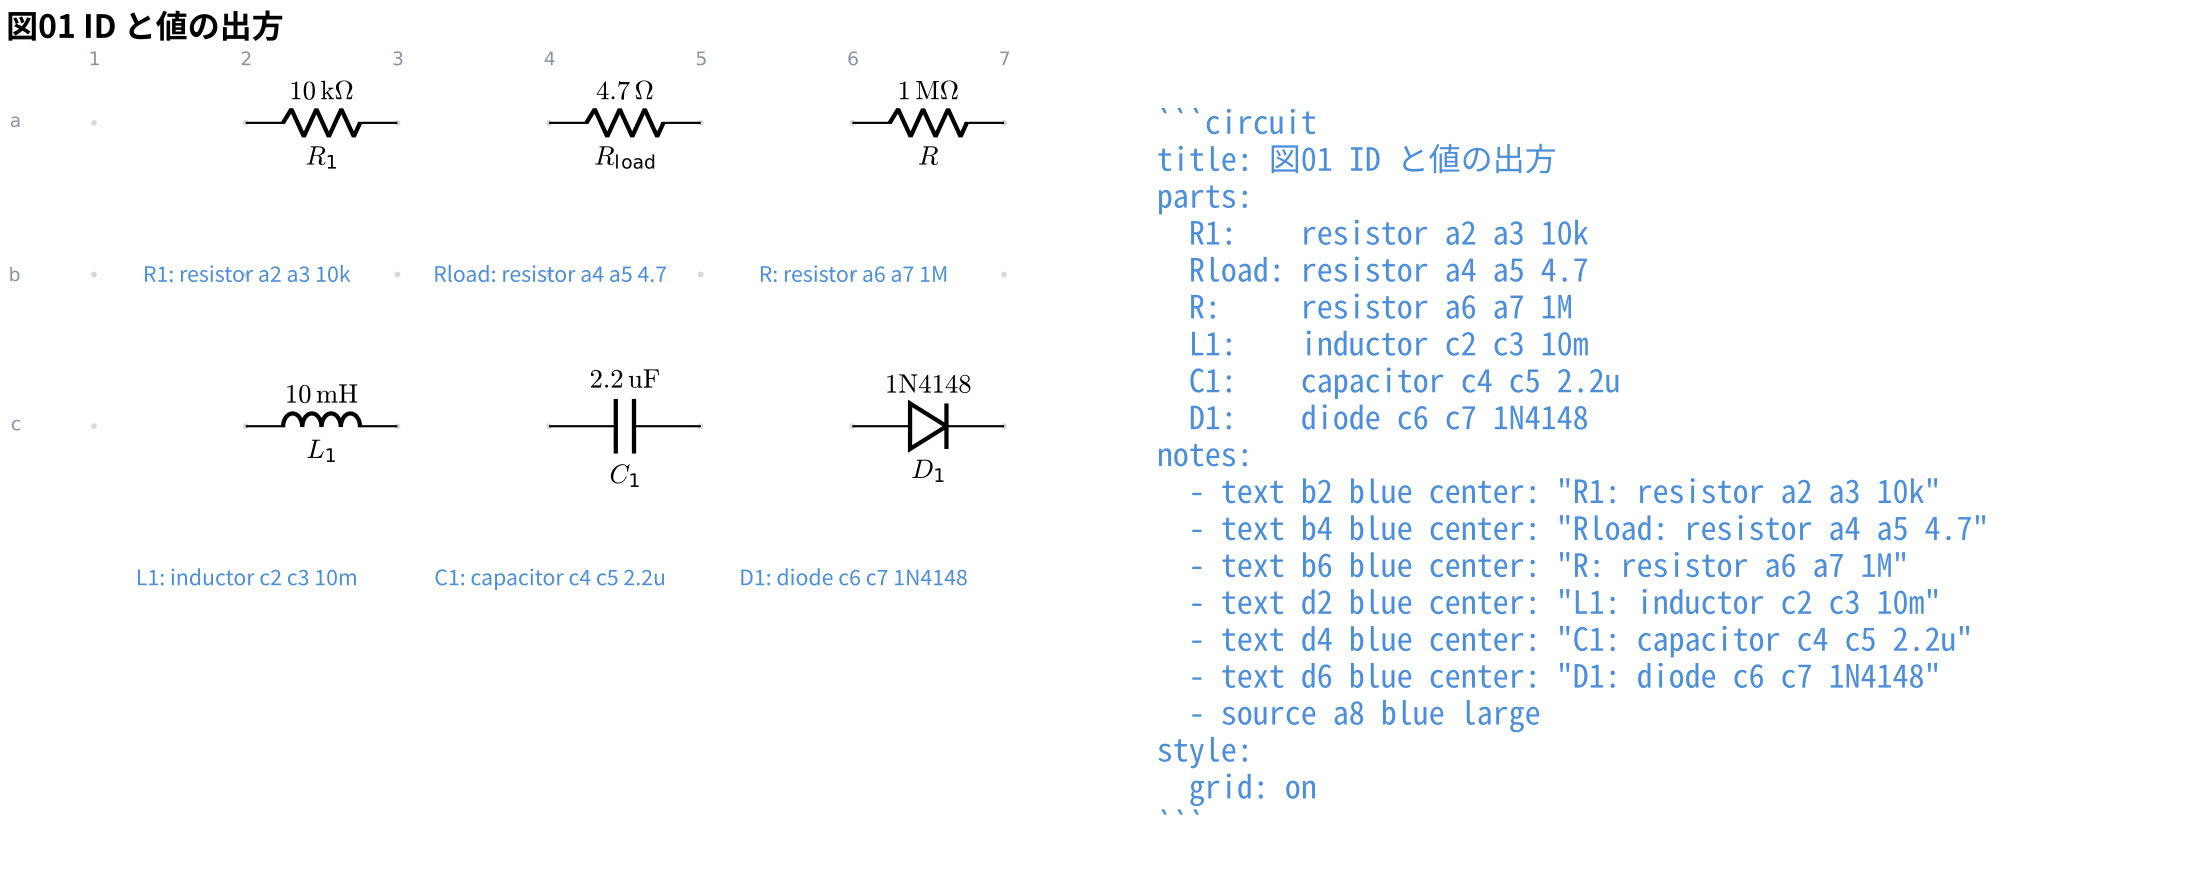
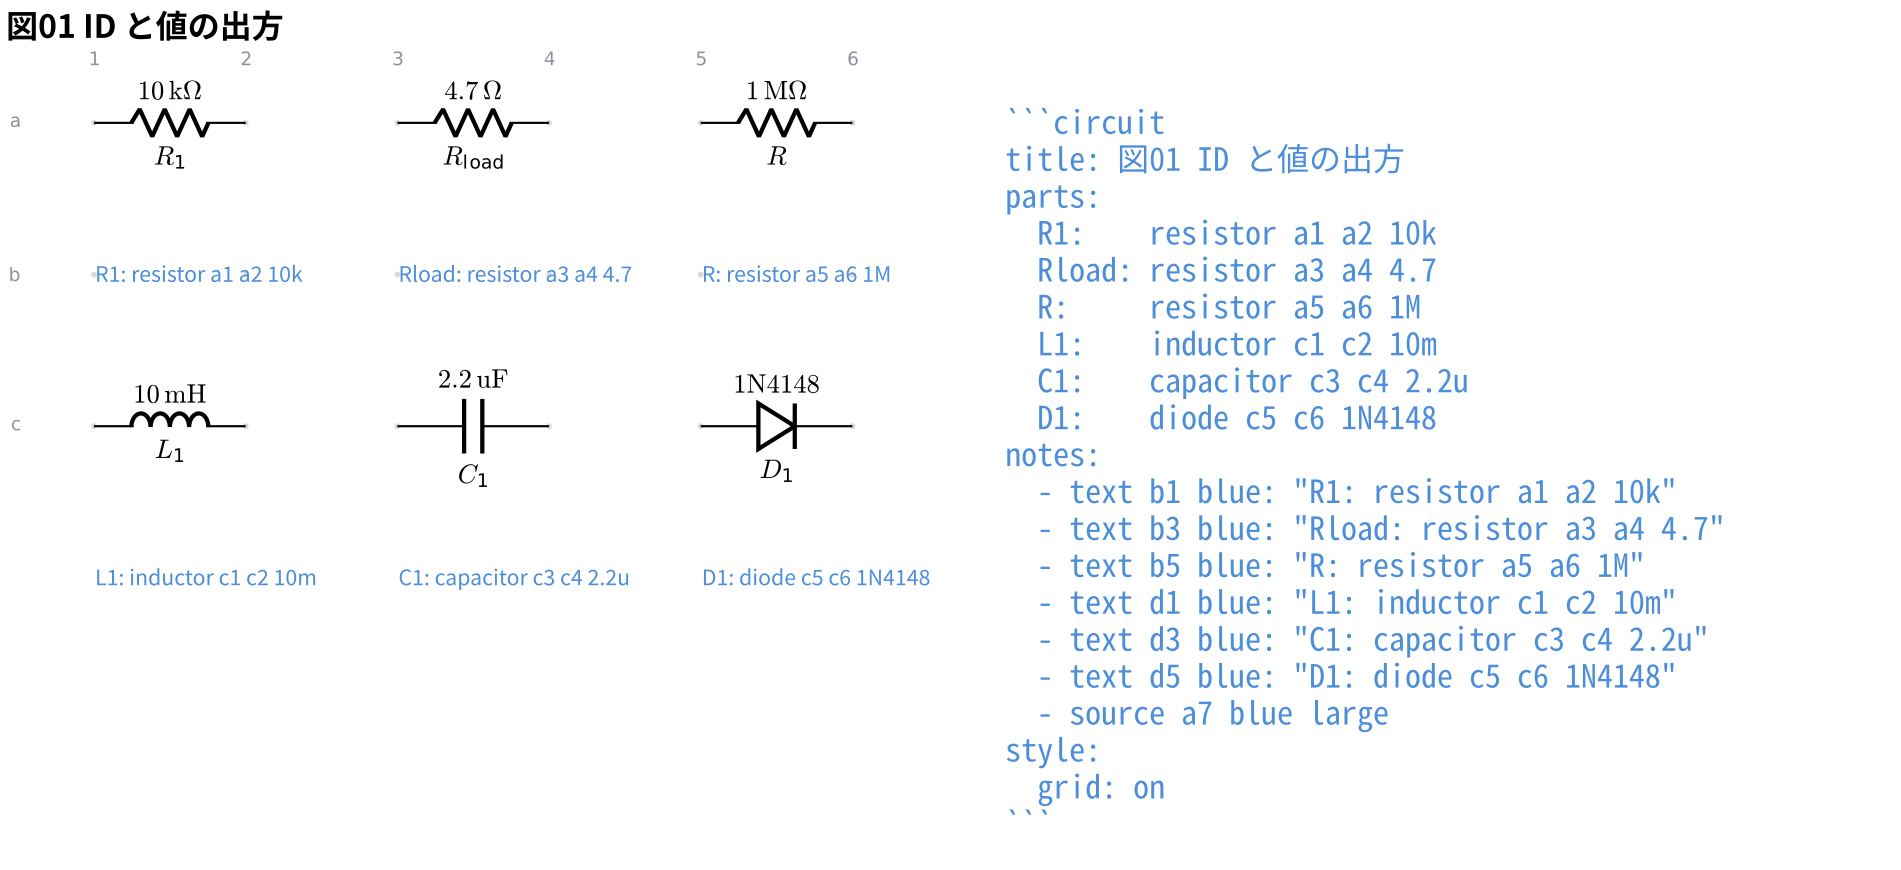
docs: 05-labels の図を 1 列左へ寄せ、コメントを左端揃えにする
部品もコメントも 1 列ずつ左へ (a2-a3 → a1-a2 など)。1 列目を空けていたのは
中央揃えの字が番地の左へ伸びて行ラベルに噛むためだったが、左端揃えなら
字は右へしか伸びないので、その心配がなくなった。

書き出しも 1 列寄せて a8 → a7。

字が隣に噛まないことは図で確かめた (いちばん長い
「Rload: resistor a3 a4 4.7」で、隣の字まで 1 文字ぶん残っている)。

🤖 Generated with [Claude Code](https://claude.com/claude-code)

diff --git a/packages/circuit-fence/examples/out/05-labels.tex b/packages/circuit-fence/examples/out/05-labels.tex
@@ -5,68 +5,67 @@
 \begin{document}
 \begin{circuitikz}[american, line width=0.8pt]
 \ctikzset{bipoles/length=1.2cm}
-\foreach \x in {0,2,4,6,8,10,12} {\foreach \y in {0,-2,-4} {\fill[gray, opacity=0.35] (\x,\y) circle (1.1pt);}}
+\foreach \x in {0,2,4,6,8,10} {\foreach \y in {0,-2,-4} {\fill[gray, opacity=0.35] (\x,\y) circle (1.1pt);}}
 \node[gray, font=\scriptsize] at (0,0.84) {1};
 \node[gray, font=\scriptsize] at (2,0.84) {2};
 \node[gray, font=\scriptsize] at (4,0.84) {3};
 \node[gray, font=\scriptsize] at (6,0.84) {4};
 \node[gray, font=\scriptsize] at (8,0.84) {5};
 \node[gray, font=\scriptsize] at (10,0.84) {6};
-\node[gray, font=\scriptsize] at (12,0.84) {7};
 \node[gray, font=\scriptsize, anchor=east] at (-0.84,0) {a};
 \node[gray, font=\scriptsize, anchor=east] at (-0.84,-2) {b};
 \node[gray, font=\scriptsize, anchor=east] at (-0.84,-4) {c};
+\coordinate (a1) at (0,0);
 \coordinate (a2) at (2,0);
 \coordinate (a3) at (4,0);
 \coordinate (a4) at (6,0);
 \coordinate (a5) at (8,0);
 \coordinate (a6) at (10,0);
-\coordinate (a7) at (12,0);
+\coordinate (c1) at (0,-4);
 \coordinate (c2) at (2,-4);
 \coordinate (c3) at (4,-4);
 \coordinate (c4) at (6,-4);
 \coordinate (c5) at (8,-4);
 \coordinate (c6) at (10,-4);
-\coordinate (c7) at (12,-4);
-\draw (a2) to[R, l_=$R_{1}$, a^=$10\,\mathrm{k}\Omega$] (a3); % line 3
-\draw (a4) to[R, l_=$R_{load}$, a^=$4.7\,\Omega$] (a5); % line 4
-\draw (a6) to[R, l_=$R$, a^=$1\,\mathrm{M}\Omega$] (a7); % line 5
-\draw (c2) to[L, l_=$L_{1}$, a^=$10\,\mathrm{m}\mathrm{H}$] (c3); % line 6
-\draw (c4) to[C, l_=$C_{1}$, a^=$2.2\,\mathrm{u}\mathrm{F}$] (c5); % line 7
-\draw (c6) to[D, l_=$D_{1}$, a^=$\mathrm{1N4148}$] (c7); % line 8
-\path (0.137,-2.395) rectangle (3.863,-1.605); % line 10
-\node[anchor=west, inner sep=0, circuitnotemark, font=\footnotesize] at (2,-2) {X}; % line 10
-\path (3.883,-2.395) rectangle (8.117,-1.605); % line 11
-\node[anchor=west, inner sep=0, circuitnotemark, font=\footnotesize] at (6,-2) {X}; % line 11
-\path (8.307,-2.395) rectangle (11.693,-1.605); % line 12
-\node[anchor=west, inner sep=0, circuitnotemark, font=\footnotesize] at (10,-2) {X}; % line 12
-\path (0.137,-6.395) rectangle (3.863,-5.605); % line 13
-\node[anchor=west, inner sep=0, circuitnotemark, font=\footnotesize] at (2,-6) {X}; % line 13
-\path (3.968,-6.395) rectangle (8.032,-5.605); % line 14
-\node[anchor=west, inner sep=0, circuitnotemark, font=\footnotesize] at (6,-6) {X}; % line 14
-\path (8.137,-6.395) rectangle (11.863,-5.605); % line 15
-\node[anchor=west, inner sep=0, circuitnotemark, font=\footnotesize] at (10,-6) {X}; % line 15
-\path (14,-9.842) rectangle (27.648,0.593); % line 16
-\node[anchor=west, inner sep=0, circuitnotemark, font=\large] at (14,0) {X}; % line 16
-\node[anchor=west, inner sep=0, circuitnotemark, font=\large] at (14,-0.487) {X}; % line 16
-\node[anchor=west, inner sep=0, circuitnotemark, font=\large] at (14,-0.974) {X}; % line 16
-\node[anchor=west, inner sep=0, circuitnotemark, font=\large] at (14,-1.46) {X}; % line 16
-\node[anchor=west, inner sep=0, circuitnotemark, font=\large] at (14,-1.947) {X}; % line 16
-\node[anchor=west, inner sep=0, circuitnotemark, font=\large] at (14,-2.434) {X}; % line 16
-\node[anchor=west, inner sep=0, circuitnotemark, font=\large] at (14,-2.921) {X}; % line 16
-\node[anchor=west, inner sep=0, circuitnotemark, font=\large] at (14,-3.408) {X}; % line 16
-\node[anchor=west, inner sep=0, circuitnotemark, font=\large] at (14,-3.895) {X}; % line 16
-\node[anchor=west, inner sep=0, circuitnotemark, font=\large] at (14,-4.381) {X}; % line 16
-\node[anchor=west, inner sep=0, circuitnotemark, font=\large] at (14,-4.868) {X}; % line 16
-\node[anchor=west, inner sep=0, circuitnotemark, font=\large] at (14,-5.355) {X}; % line 16
-\node[anchor=west, inner sep=0, circuitnotemark, font=\large] at (14,-5.842) {X}; % line 16
-\node[anchor=west, inner sep=0, circuitnotemark, font=\large] at (14,-6.329) {X}; % line 16
-\node[anchor=west, inner sep=0, circuitnotemark, font=\large] at (14,-6.816) {X}; % line 16
-\node[anchor=west, inner sep=0, circuitnotemark, font=\large] at (14,-7.302) {X}; % line 16
-\node[anchor=west, inner sep=0, circuitnotemark, font=\large] at (14,-7.789) {X}; % line 16
-\node[anchor=west, inner sep=0, circuitnotemark, font=\large] at (14,-8.276) {X}; % line 16
-\node[anchor=west, inner sep=0, circuitnotemark, font=\large] at (14,-8.763) {X}; % line 16
-\node[anchor=west, inner sep=0, circuitnotemark, font=\large] at (14,-9.25) {X}; % line 16
+\draw (a1) to[R, l_=$R_{1}$, a^=$10\,\mathrm{k}\Omega$] (a2); % line 3
+\draw (a3) to[R, l_=$R_{load}$, a^=$4.7\,\Omega$] (a4); % line 4
+\draw (a5) to[R, l_=$R$, a^=$1\,\mathrm{M}\Omega$] (a6); % line 5
+\draw (c1) to[L, l_=$L_{1}$, a^=$10\,\mathrm{m}\mathrm{H}$] (c2); % line 6
+\draw (c3) to[C, l_=$C_{1}$, a^=$2.2\,\mathrm{u}\mathrm{F}$] (c4); % line 7
+\draw (c5) to[D, l_=$D_{1}$, a^=$\mathrm{1N4148}$] (c6); % line 8
+\path (0,-2.395) rectangle (3.725,-1.605); % line 10
+\node[anchor=west, inner sep=0, circuitnotemark, font=\footnotesize] at (0,-2) {X}; % line 10
+\path (4,-2.395) rectangle (8.233,-1.605); % line 11
+\node[anchor=west, inner sep=0, circuitnotemark, font=\footnotesize] at (4,-2) {X}; % line 11
+\path (8,-2.395) rectangle (11.387,-1.605); % line 12
+\node[anchor=west, inner sep=0, circuitnotemark, font=\footnotesize] at (8,-2) {X}; % line 12
+\path (0,-6.395) rectangle (3.725,-5.605); % line 13
+\node[anchor=west, inner sep=0, circuitnotemark, font=\footnotesize] at (0,-6) {X}; % line 13
+\path (4,-6.395) rectangle (8.064,-5.605); % line 14
+\node[anchor=west, inner sep=0, circuitnotemark, font=\footnotesize] at (4,-6) {X}; % line 14
+\path (8,-6.395) rectangle (11.725,-5.605); % line 15
+\node[anchor=west, inner sep=0, circuitnotemark, font=\footnotesize] at (8,-6) {X}; % line 15
+\path (12,-9.842) rectangle (23.811,0.593); % line 16
+\node[anchor=west, inner sep=0, circuitnotemark, font=\large] at (12,0) {X}; % line 16
+\node[anchor=west, inner sep=0, circuitnotemark, font=\large] at (12,-0.487) {X}; % line 16
+\node[anchor=west, inner sep=0, circuitnotemark, font=\large] at (12,-0.974) {X}; % line 16
+\node[anchor=west, inner sep=0, circuitnotemark, font=\large] at (12,-1.46) {X}; % line 16
+\node[anchor=west, inner sep=0, circuitnotemark, font=\large] at (12,-1.947) {X}; % line 16
+\node[anchor=west, inner sep=0, circuitnotemark, font=\large] at (12,-2.434) {X}; % line 16
+\node[anchor=west, inner sep=0, circuitnotemark, font=\large] at (12,-2.921) {X}; % line 16
+\node[anchor=west, inner sep=0, circuitnotemark, font=\large] at (12,-3.408) {X}; % line 16
+\node[anchor=west, inner sep=0, circuitnotemark, font=\large] at (12,-3.895) {X}; % line 16
+\node[anchor=west, inner sep=0, circuitnotemark, font=\large] at (12,-4.381) {X}; % line 16
+\node[anchor=west, inner sep=0, circuitnotemark, font=\large] at (12,-4.868) {X}; % line 16
+\node[anchor=west, inner sep=0, circuitnotemark, font=\large] at (12,-5.355) {X}; % line 16
+\node[anchor=west, inner sep=0, circuitnotemark, font=\large] at (12,-5.842) {X}; % line 16
+\node[anchor=west, inner sep=0, circuitnotemark, font=\large] at (12,-6.329) {X}; % line 16
+\node[anchor=west, inner sep=0, circuitnotemark, font=\large] at (12,-6.816) {X}; % line 16
+\node[anchor=west, inner sep=0, circuitnotemark, font=\large] at (12,-7.302) {X}; % line 16
+\node[anchor=west, inner sep=0, circuitnotemark, font=\large] at (12,-7.789) {X}; % line 16
+\node[anchor=west, inner sep=0, circuitnotemark, font=\large] at (12,-8.276) {X}; % line 16
+\node[anchor=west, inner sep=0, circuitnotemark, font=\large] at (12,-8.763) {X}; % line 16
+\node[anchor=west, inner sep=0, circuitnotemark, font=\large] at (12,-9.25) {X}; % line 16
 \node[anchor=south west, inner sep=2pt, circuitnotemark, font=\large\bfseries] (circuittitle) at (current bounding box.north west) {X};
 \path (circuittitle.south west) rectangle ++(5.08,0.593);
 \end{circuitikz}

diff --git a/packages/circuit-fence/examples/05-labels.md b/packages/circuit-fence/examples/05-labels.md
@@ -9,20 +9,20 @@ ID は先頭 1 文字が本体、残りが添字になる (回路図の慣習ど
 ```circuit
 title: 図01 ID と値の出方
 parts:
-  R1:    resistor a2 a3 10k
-  Rload: resistor a4 a5 4.7
-  R:     resistor a6 a7 1M
-  L1:    inductor c2 c3 10m
-  C1:    capacitor c4 c5 2.2u
-  D1:    diode c6 c7 1N4148
+  R1:    resistor a1 a2 10k
+  Rload: resistor a3 a4 4.7
+  R:     resistor a5 a6 1M
+  L1:    inductor c1 c2 10m
+  C1:    capacitor c3 c4 2.2u
+  D1:    diode c5 c6 1N4148
 notes:
-  - text b2 blue center: "R1: resistor a2 a3 10k"
-  - text b4 blue center: "Rload: resistor a4 a5 4.7"
-  - text b6 blue center: "R: resistor a6 a7 1M"
-  - text d2 blue center: "L1: inductor c2 c3 10m"
-  - text d4 blue center: "C1: capacitor c4 c5 2.2u"
-  - text d6 blue center: "D1: diode c6 c7 1N4148"
-  - source a8 blue large
+  - text b1 blue: "R1: resistor a1 a2 10k"
+  - text b3 blue: "Rload: resistor a3 a4 4.7"
+  - text b5 blue: "R: resistor a5 a6 1M"
+  - text d1 blue: "L1: inductor c1 c2 10m"
+  - text d3 blue: "C1: capacitor c3 c4 2.2u"
+  - text d5 blue: "D1: diode c5 c6 1N4148"
+  - source a7 blue large
 style:
   grid: on
 ```
